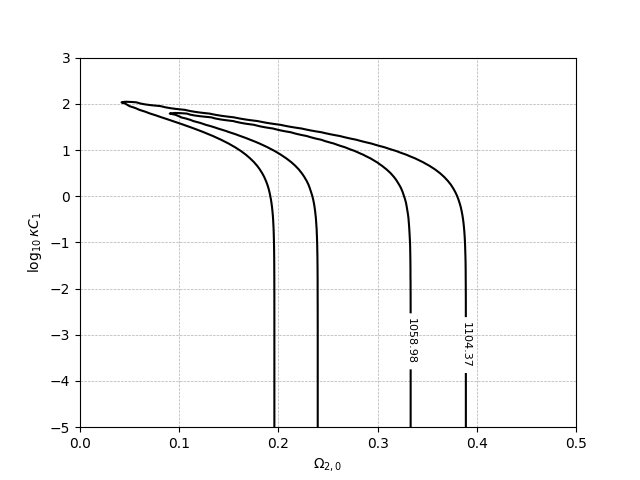
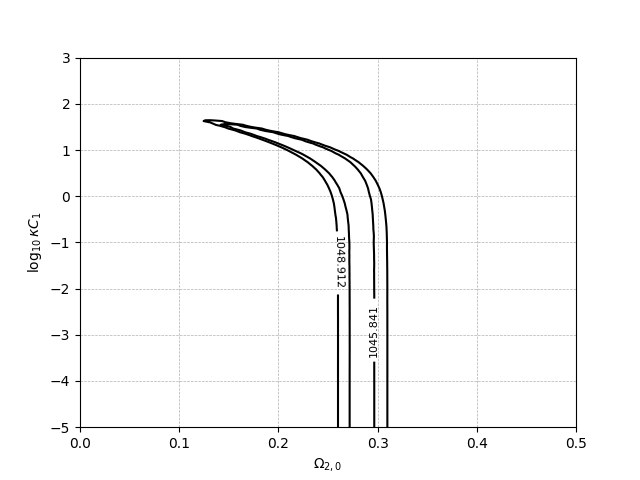
update sneia

diff --git a/SNe Ia/result.py b/SNe Ia/result.py
@@ -100,6 +100,22 @@ def lnprob(paras):
         return -np.inf
     return lp + lnlike(paras)
 
+# 补充mcmc的lnlike,lnprior,lnprob
+def lnlike2(paras):
+    O20 = paras[0]
+    chi2 = chi_square(log_kC1, O20, H0)
+    return -0.5 * chi2
+def lnprior2(paras):
+    O20 = paras[0]
+    if 0 < O20 < 0.5:
+        return 0.0
+    return -np.inf
+def lnprob2(paras):
+    lp = lnprior2(paras)
+    if not np.isfinite(lp):
+        return -np.inf
+    return lp + lnlike2(paras)
+
 # 主函数包括mcmc与格点法
 def main():
     # 定义mcmc参量
@@ -134,8 +150,23 @@ def main():
     axes[-1].set_xlabel("step number")
     plt.show()
 
-    # 取出最佳H0
-    H0 = np.percentile(flat_samples[:, 2], [50.0])[0]
+    # mcmc的结果集中在上部,这与chi2_test中给出的结果类似
+    # 为了使结果更合理,这里将只在log_kC1较小处单独对chi2进行mcmc
+
+    # H0与log_kC1直接给定
+    H0 = 70.0
+    log_kC1 = -5.0
+
+    # 再次mcmc
+    nll2 = lambda *args: -lnlike2(*args)
+    initial2 = np.array([0.28])
+    soln2 = scipy.optimize.minimize(nll2, initial2)
+    pos2 = soln2.x + 1e-4 * np.random.randn(50, 1)
+    nwalkers2, ndim2 = pos2.shape
+    with mp.Pool() as pool:
+        sampler2 = emcee.EnsembleSampler(nwalkers2, ndim2, lnprob2, pool=pool)
+        sampler2.run_mcmc(pos2, 2000, progress = True)
+    flat_samples = sampler2.get_chain(discard=100, flat=True)
 
      # 网格
     N = 100
